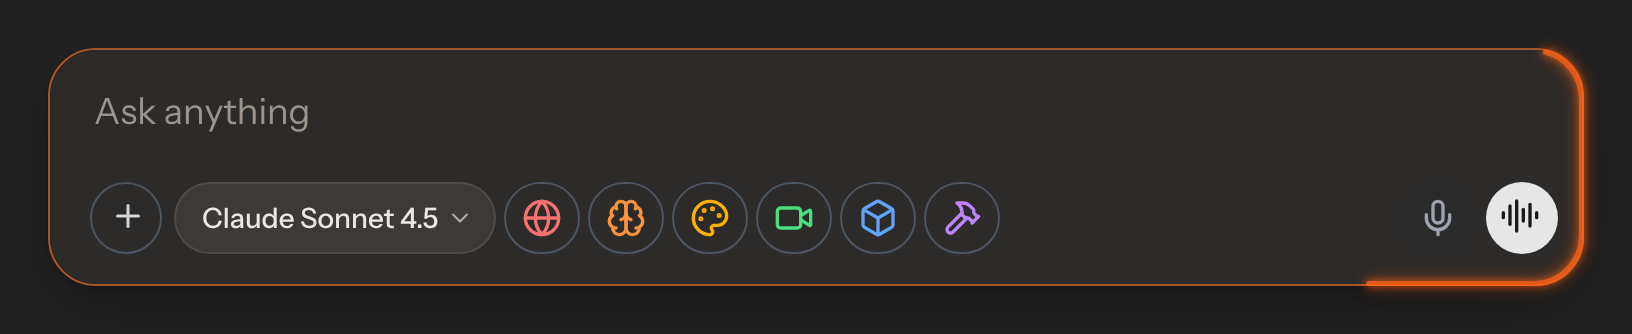
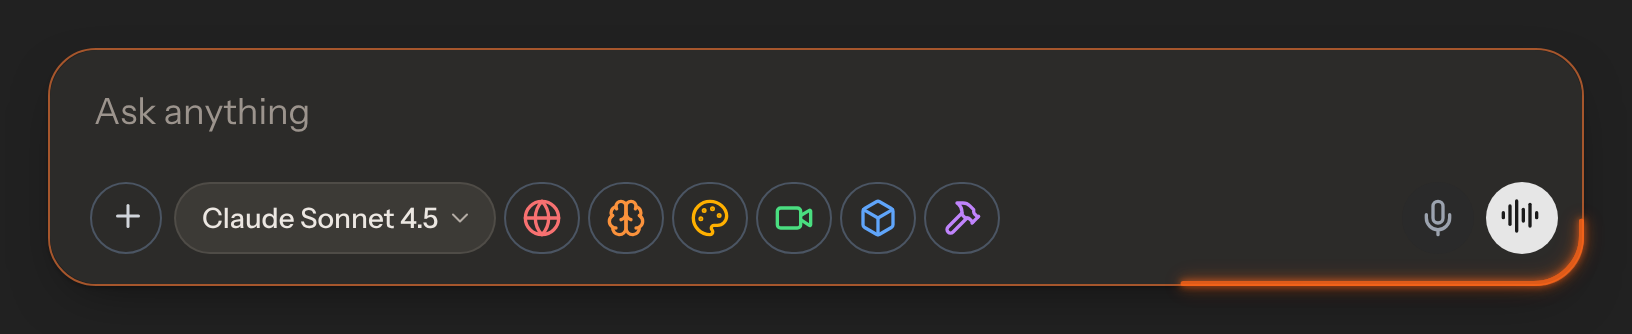
style(chat): quieter 1px cool composer comet; pauses on focus, hidden under reduced motion
Claude-Session: https://claude.ai/code/session_01X342smWYTKodPzR1VS6G3a

Changed region(s): [[0.9375, 0.1198, 1.0, 0.6587], [0.7188, 0.8084, 0.8438, 0.8982]]

diff --git a/src/components/ui/chat-input.tsx b/src/components/ui/chat-input.tsx
@@ -66,7 +66,8 @@ const THREE_D_GENERATION_ENABLED = process.env.NEXT_PUBLIC_3D_GENERATION_ENABLED
 const MCP_TOOLS_LIST_ENABLED = process.env.NEXT_PUBLIC_MCP_TOOLS_LIST_ENABLED === 'true';
 const VOICE_MODE_ENABLED = process.env.NEXT_PUBLIC_VOICE_MODE_ENABLED !== 'false'; // Enabled by default if not explicitly disabled
 const COMET_TRAIL_PX = 180;
-const COMET_HEAD_PX = 28;
+const COMET_BODY_PX = 72;
+const COMET_HEAD_PX = 24;
 
 // Compile-time default for suggestions
 const ENV_SHOW_SUGGESTIONS = env.NEXT_PUBLIC_SHOW_SUGGESTIONS === 'true';
@@ -4430,7 +4431,7 @@ export const ChatInput = forwardRef<ChatInputHandle, ChatInputProps>(function Ch
               'z-20' // Ensure it sits above voice overlay text
             )}
           >
-            {/* Animated Gradient Border - SVG Implementation */}
+            {/* Travelling comet border (styles in chat-shell.css) */}
             <div
               ref={containerRef}
               className="chat-composer-comet absolute -inset-[1px] pointer-events-none z-30"
@@ -4441,7 +4442,7 @@ export const ChatInput = forwardRef<ChatInputHandle, ChatInputProps>(function Ch
             >
               {(perimeter > 0 && borderEnabled) && (
                 <svg className="chat-composer-comet__svg" aria-hidden="true" focusable="false">
-                  {/* One faint trail with a brighter head at its leading end */}
+                  {/* Faint trail, brighter body and head stacked at the leading end */}
                   <rect
                     className="chat-composer-comet__trail"
                     x="0.5" y="0.5"
@@ -4450,6 +4451,16 @@ export const ChatInput = forwardRef<ChatInputHandle, ChatInputProps>(function Ch
                     style={{
                       strokeDasharray: `${COMET_TRAIL_PX} ${Math.max(0, perimeter - COMET_TRAIL_PX)}`,
                       '--comet-from': '0px',
+                    } as React.CSSProperties}
+                  />
+                  <rect
+                    className="chat-composer-comet__body"
+                    x="0.5" y="0.5"
+                    width="calc(100% - 1px)" height="calc(100% - 1px)"
+                    rx="24" ry="24"
+                    style={{
+                      strokeDasharray: `${COMET_BODY_PX} ${Math.max(0, perimeter - COMET_BODY_PX)}`,
+                      '--comet-from': `${COMET_BODY_PX - COMET_TRAIL_PX}px`,
                     } as React.CSSProperties}
                   />
                   <rect

diff --git a/src/app/chat-shell.css b/src/app/chat-shell.css
@@ -18,6 +18,7 @@
   --chat-accent: #f2611a;
   --chat-accent-ink: #b8430e;
   --chat-focus: rgba(242, 97, 26, 0.55);
+  --chat-comet-rgb: 84 102 128;
   --chat-card-shadow: 0 8px 24px -12px rgba(60, 30, 10, 0.28), 0 1px 2px rgba(60, 30, 10, 0.06);
   --chat-glass-fill: rgba(255, 250, 246, 0.46);
   --chat-glass-border: rgba(0, 0, 0, 0.08);
@@ -39,6 +40,7 @@
   --chat-accent: #ff7a33;
   --chat-accent-ink: #ffa36e;
   --chat-focus: rgba(255, 122, 51, 0.6);
+  --chat-comet-rgb: 178 210 238;
   --chat-glass-fill: rgba(56, 55, 53, 0.4);
   --chat-glass-border: rgba(255, 255, 255, 0.12);
   --chat-glass-shadow: 0 8px 20px -8px rgba(0, 0, 0, 0.5), 0 1px 2px rgba(0, 0, 0, 0.3);
@@ -422,6 +424,55 @@ html .chat-input-container form.chat-composer-card {
 
 html .chat-input-container form.chat-composer-card:focus-within {
   border-color: var(--chat-focus);
+}
+
+/* Travelling comet: a 1px cool trace with a faint tail, quieter than the focus border. */
+.chat-composer-comet__svg {
+  width: 100%;
+  height: 100%;
+  overflow: visible;
+  filter: drop-shadow(0 0 2px rgb(var(--chat-comet-rgb) / 0.35));
+  transition: opacity 240ms var(--chat-ease);
+}
+
+.chat-composer-comet__trail,
+.chat-composer-comet__body,
+.chat-composer-comet__head {
+  fill: none;
+  stroke: rgb(var(--chat-comet-rgb));
+  stroke-width: 1;
+  stroke-linecap: round;
+  stroke-dashoffset: var(--comet-from);
+  animation: chat-comet-travel 24s linear infinite;
+}
+
+.chat-composer-comet__trail {
+  stroke-opacity: 0.14;
+}
+
+.chat-composer-comet__body {
+  stroke-opacity: 0.2;
+}
+
+.chat-composer-comet__head {
+  stroke-opacity: 0.4;
+}
+
+html .chat-input-container form.chat-composer-card:focus-within .chat-composer-comet__svg {
+  opacity: 0.4;
+}
+
+html .chat-input-container form.chat-composer-card:focus-within .chat-composer-comet__svg rect {
+  animation-play-state: paused;
+}
+
+@keyframes chat-comet-travel {
+  from {
+    stroke-dashoffset: var(--comet-from);
+  }
+  to {
+    stroke-dashoffset: calc(var(--comet-from) - var(--perimeter) * 1px);
+  }
 }
 
 .chat-composer-fill {
@@ -1145,6 +1196,10 @@ html .chat-row[data-role='user'] .chat-message.rounded-\[20px\] :is(div, p) {
 }
 
 @media (prefers-reduced-motion: reduce) {
+  .chat-composer-comet {
+    display: none;
+  }
+
   .chat-pill-icon,
   .chat-model-pill,
   .chat-avatar-pill,
